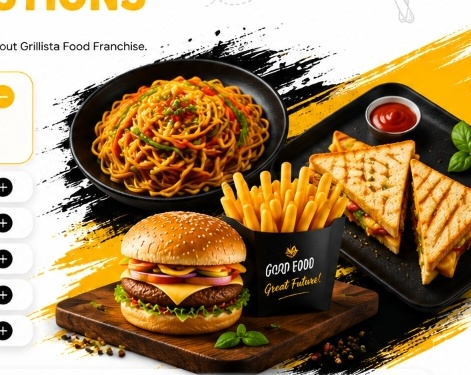
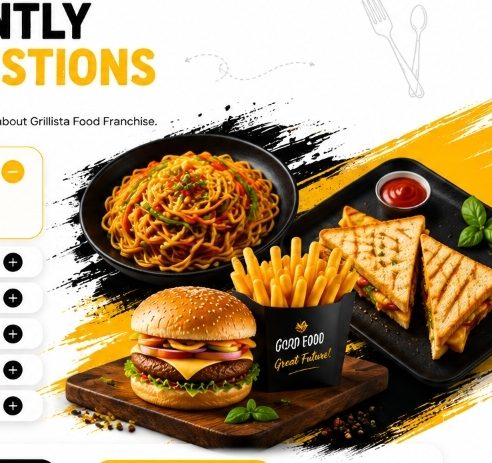
Update FAQ section with 100% exact full food collage artwork, chef hat and cutlery background doodles matching user reference image

diff --git a/index.html b/index.html
@@ -358,8 +358,14 @@
     <section class="faq-exact-section" id="faq">
       <div class="faq-exact-container">
         
-        <!-- Header / Title Area -->
-        <div class="faq-exact-header">
+        <!-- Header / Title Area with Doodles -->
+        <div class="faq-exact-header" style="position: relative;">
+          <!-- Left Chef Hat Doodle -->
+          <img src="assets/faq_doodle_chef.png" alt="" class="faq-doodle-left desktop-only" style="position: absolute; left: 15px; top: -10px; width: 115px; opacity: 0.75; pointer-events: none;">
+          
+          <!-- Right Fork & Spoon Doodle -->
+          <img src="assets/faq_doodle_fork.png" alt="" class="faq-doodle-right desktop-only" style="position: absolute; right: 15px; top: -10px; width: 90px; opacity: 0.75; pointer-events: none;">
+
           <div class="faq-spark-badge">― FAQ ―</div>
           <h2 class="faq-title-main">
             <span class="faq-title-black">FREQUENTLY</span><br>
